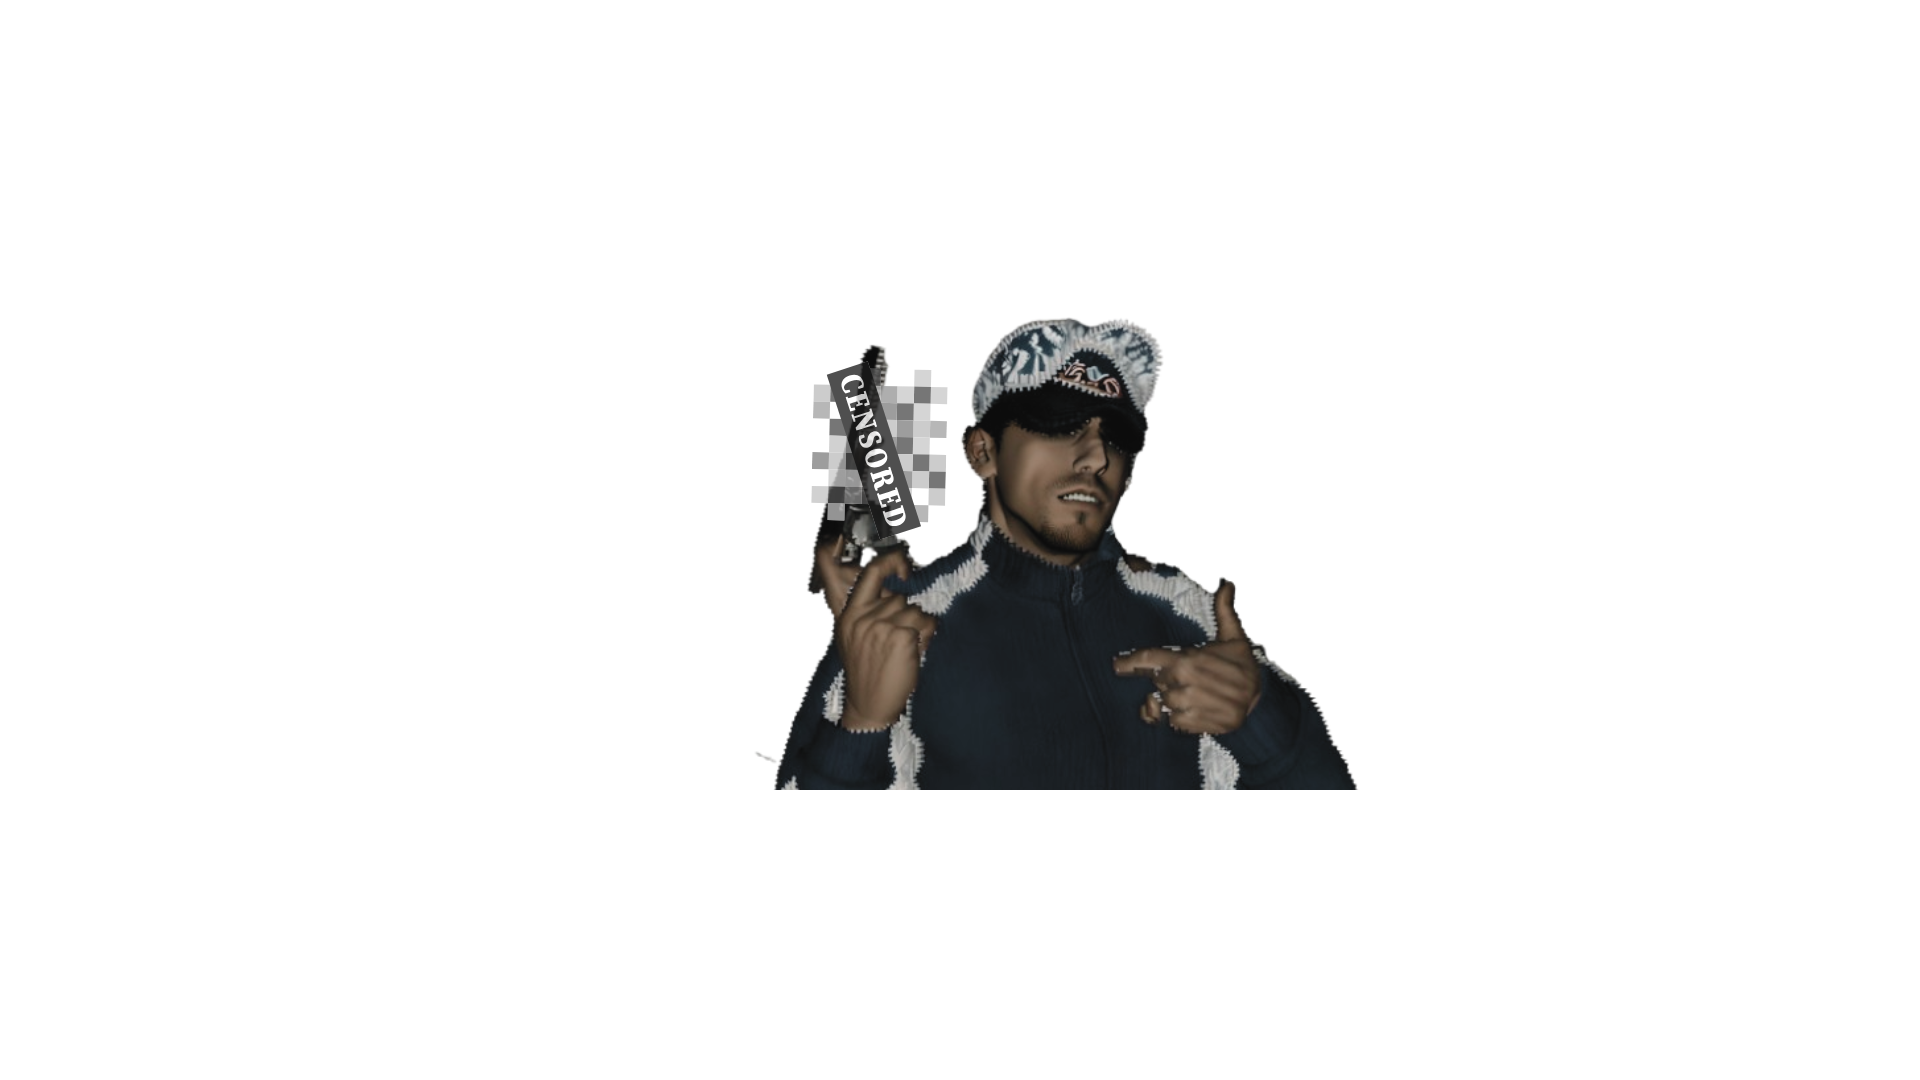
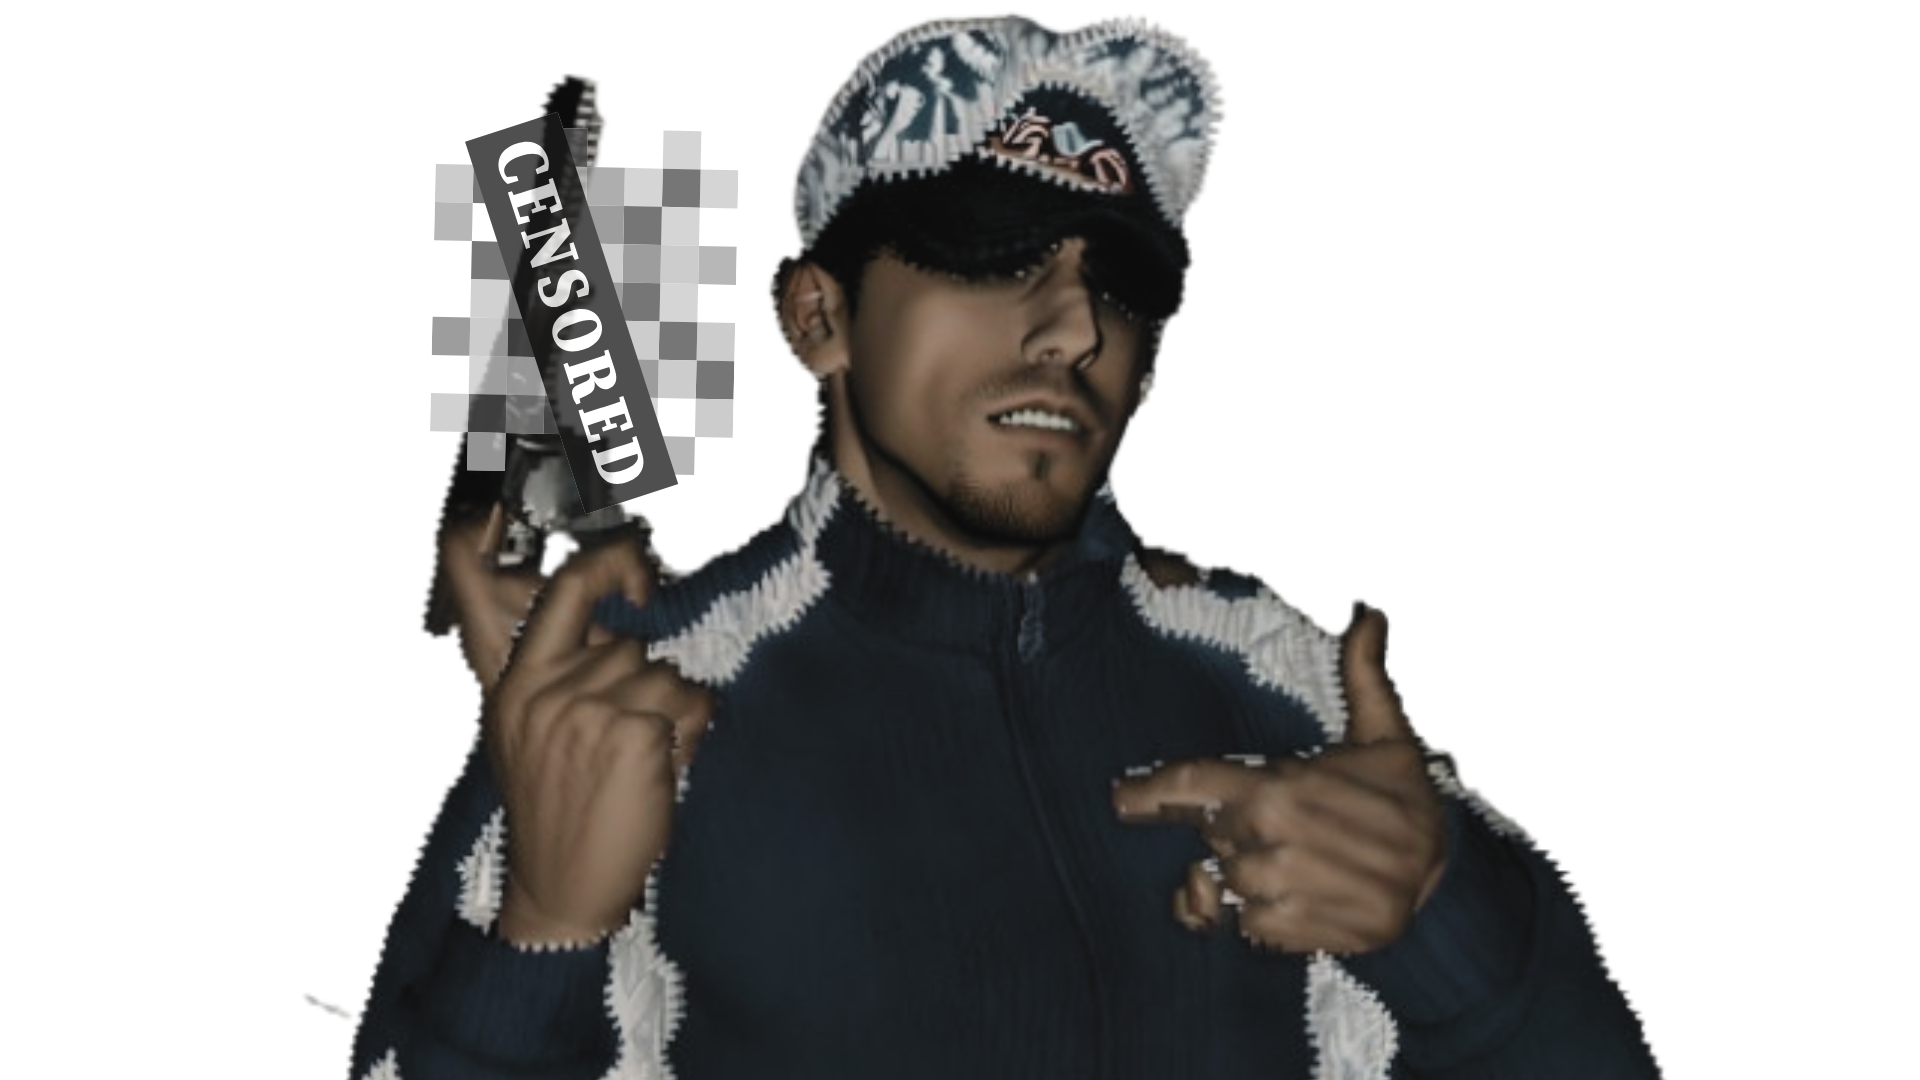
sumamos los dos budines y agrandamos las imagenes

diff --git a/frontend/src/app/pages/Soldati/mostrador/page.js b/frontend/src/app/pages/Soldati/mostrador/page.js
@@ -85,7 +85,10 @@ export default function MostradorLogica() {
                 setSlideIn2(false);
                 setSlideOut2(true);
                 setShowDialogue2(false);
-                const removeImageTimer2 = setTimeout(() => setShowImage2(false), 500);
+                const removeImageTimer2 = setTimeout(() => {
+                    setShowImage2(false);
+                    setShowDialogue2(false); // Asegúrate de que el diálogo esté oculto
+                }, 500);
                 return () => clearTimeout(removeImageTimer2);
             }
         }, 61000);
@@ -110,19 +113,26 @@ export default function MostradorLogica() {
     // Función para hacer clic en el cliente y que se vaya si ha recibido comida
     const handleClientClick = (clientNumber) => {
         if (clientNumber === 1 && hasReceivedFood1) {
-            setScore(prevScore => prevScore + 10); // Incrementa el puntaje al cumplir la interacción
+            setScore(prevScore => prevScore + 50); // Incrementa el puntaje al cumplir la interacción
             setSlideIn1(false);
             setSlideOut1(true);
-            setShowDialogue1(false);
-            setTimeout(() => setShowImage1(false), 500);
+            setShowDialogue1(false); // Oculta el diálogo al irse el cliente
+            setTimeout(() => {
+                setShowImage1(false);
+                setShowDialogue1(false); // Asegúrate de que el diálogo esté oculto
+            }, 500);
         } else if (clientNumber === 2 && hasReceivedFood2) {
-            setScore(prevScore => prevScore + 10);
+            setScore(prevScore => prevScore + 30);
             setSlideIn2(false);
             setSlideOut2(true);
-            setShowDialogue2(false);
-            setTimeout(() => setShowImage2(false), 500);
+            setShowDialogue2(false); // Oculta el diálogo al irse el cliente
+            setTimeout(() => {
+                setShowImage2(false);
+                setShowDialogue2(false); // Asegúrate de que el diálogo esté oculto
+            }, 500);
         }
     };
+    
 
     return (
         <div className={styles.imgSoldati}>
@@ -143,7 +153,7 @@ export default function MostradorLogica() {
             <Cliente
                 src="/clientes/hombreChorro.png"
                 alt="Cliente 2"
-                dialogue="¡Dame un budín, rápido!"
+                dialogue="¡Dame un budín de limón, rápido!"
                 showImage={showImage2}
                 slideIn={slideIn2}
                 slideOut={slideOut2}
@@ -156,7 +166,14 @@ export default function MostradorLogica() {
                 src="/objetos/budinLimonSoldati.png"
                 alt="Budín de Limón"
                 className={styles.budinImageContainer}
-                onClick={handleGiveFood} 
+                onClick={handleGiveFood}
+            />
+
+            <img
+                src="/objetos/budinChocolateSoldati.png"
+                alt="Budín de Chocolate"
+                className={styles.budinImageChocolate}
+                onClick={handleGiveFood}
             />
             {/* Radio */}
             <img

diff --git a/frontend/src/app/pages/Soldati/mostrador/mostradorsoldati.module.css b/frontend/src/app/pages/Soldati/mostrador/mostradorsoldati.module.css
@@ -132,9 +132,18 @@
 
 .budinImageContainer {
     position: absolute; /* Cambia a absolute para poder moverlo */
-    top: 550px; /* Ajusta según necesites */
-    right: 1000px; /* Ajusta según necesites */
-    width: 550px; /* Cambia el tamaño si es necesario */
+    top: 590px; /* Ajusta según necesites */
+    right: 830px; /* Ajusta según necesites */
+    width: 350px; /* Cambia el tamaño si es necesario */
     cursor: pointer;
     z-index: 30; /* Asegúrate de que esté frente a los clientes */
+}
+
+.budinImageChocolate {
+    position: absolute;
+    top: 584px;
+    right: 1200px;
+    width: 350px;
+    cursor: pointer;
+    z-index: 30;
 }

diff --git a/frontend/src/components/clientes.module.css b/frontend/src/components/clientes.module.css
@@ -6,13 +6,13 @@
 
 .appearImage {
     position: absolute;
-    top: 270px;
+    top: 286px;
     left: -600px;
     max-width: 570px;
     max-height: 570px;
     z-index: 10;
     transition: left 1s ease-in-out;
-    height: 380px;
+    height: 365px;
     width: 600px;
 }
 
